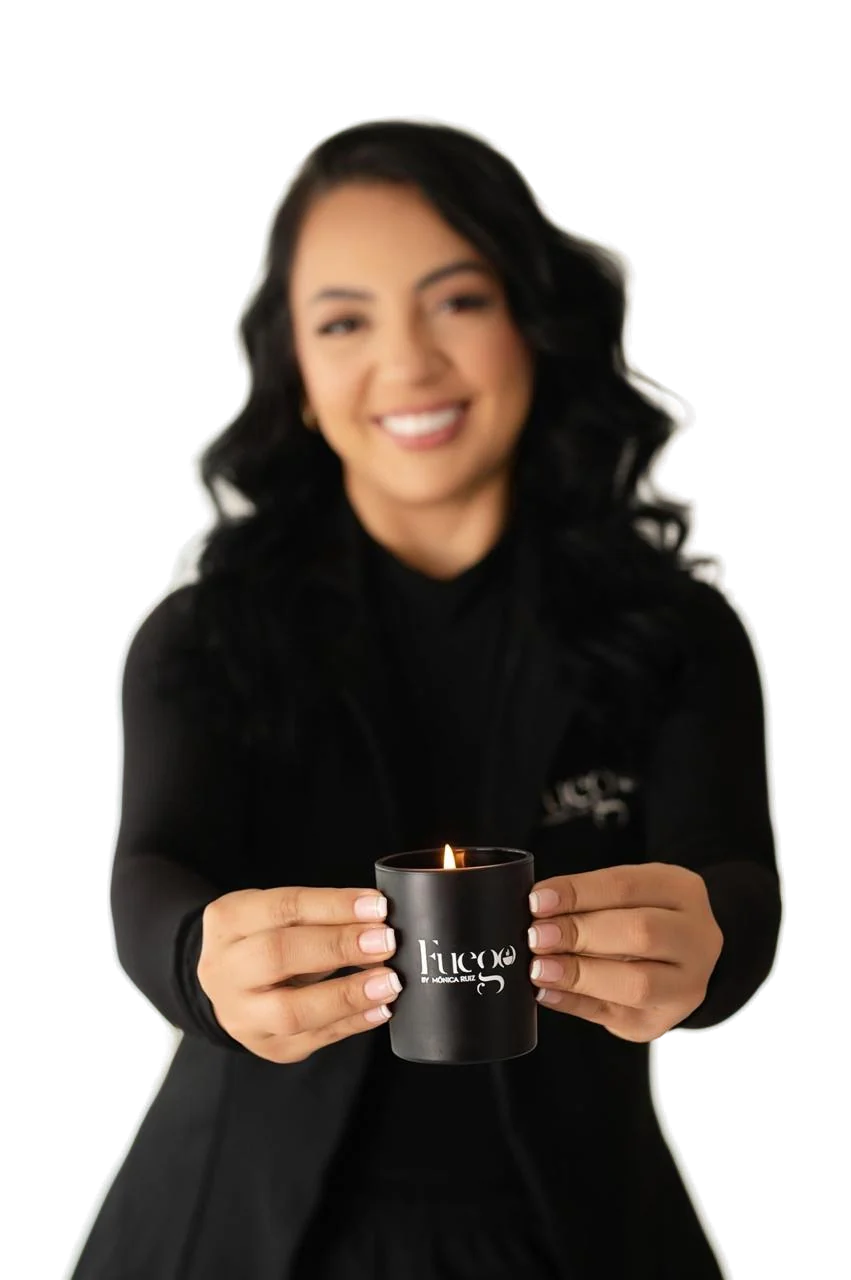
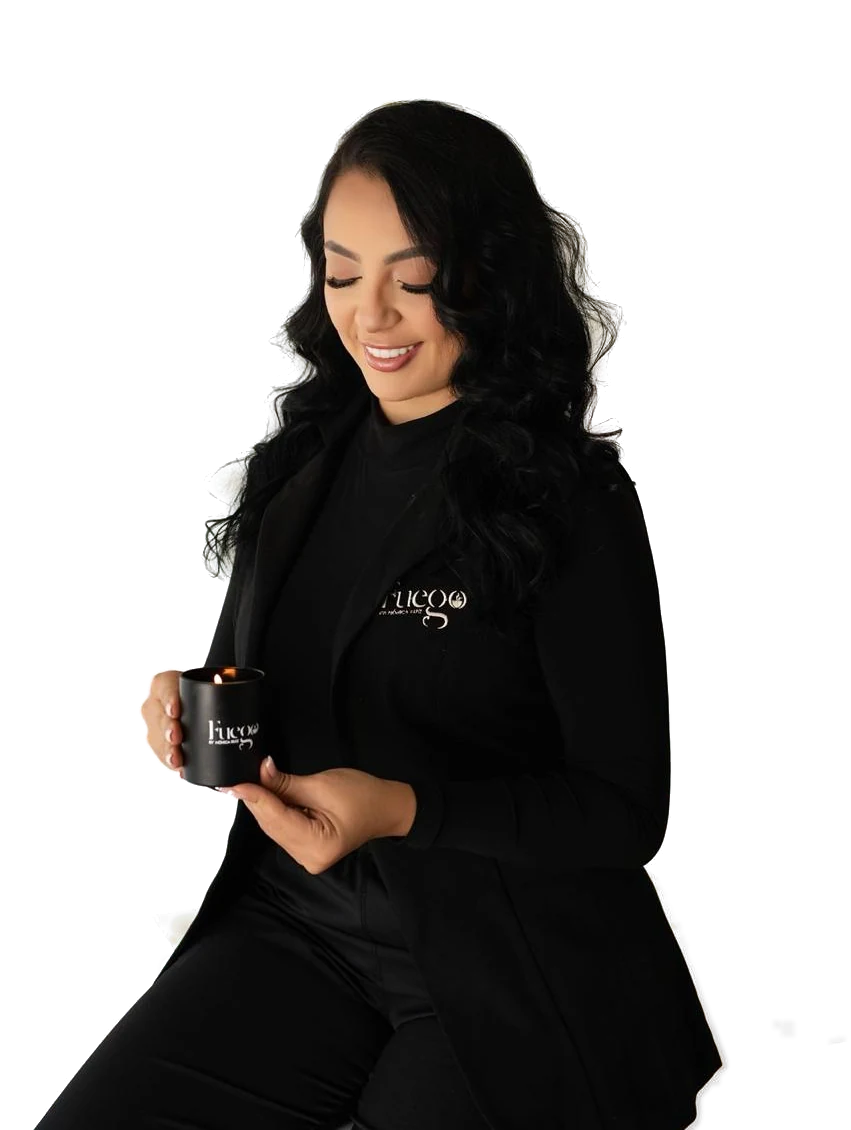
Cambia la foto del encendido por la de Mónica sentada mirando la vela
La luz, la llama y las chispas se alinean con la vela de la nueva foto.

Claude-Session: https://claude.ai/code/session_016FcfXPu4NS4CATQEVcUnev

Changed region(s): [[0.0306, 0.0619, 0.9471, 1.0], [0.4583, 0.5265, 0.5499, 0.5575], [0.3972, 0.9912, 0.4277, 1.0]]

diff --git a/src/app/globals.css b/src/app/globals.css
@@ -15,8 +15,8 @@
   --fuego: #ba4719;
   --tinta: #efe4d4;
   /* Punto de la llama dentro de la foto de Mónica */
-  --fx: 52.8%;
-  --fy: 66.6%;
+  --fx: 25.9%;
+  --fy: 59.6%;
 }
 
 html {
@@ -198,10 +198,10 @@ body.claro .top {
 }
 .hero-figure {
   position: absolute;
-  left: 50%;
+  left: 54%;
   bottom: 0;
   height: 94svh;
-  aspect-ratio: 851 / 1280;
+  aspect-ratio: 851 / 1130;
   translate: -50% 0;
   z-index: 1;
   transform-origin: var(--fx) var(--fy);
@@ -225,14 +225,14 @@ body.claro .top {
     circle at var(--fx) var(--fy),
     #000 0%,
     rgba(0, 0, 0, 0.9) calc(var(--r) * 0.34%),
-    rgba(0, 0, 0, 0.35) calc(var(--r) * 0.7%),
+    rgba(0, 0, 0, 0.62) calc(var(--r) * 0.68%),
     transparent calc(var(--r) * 1%)
   );
   mask-image: radial-gradient(
     circle at var(--fx) var(--fy),
     #000 0%,
     rgba(0, 0, 0, 0.9) calc(var(--r) * 0.34%),
-    rgba(0, 0, 0, 0.35) calc(var(--r) * 0.7%),
+    rgba(0, 0, 0, 0.62) calc(var(--r) * 0.68%),
     transparent calc(var(--r) * 1%)
   );
 }
@@ -271,8 +271,8 @@ body.claro .top {
   position: absolute;
   left: var(--fx);
   top: var(--fy);
-  width: 3%;
-  translate: -50% -78%;
+  width: 2.2%;
+  translate: -50% -80%;
   transform-origin: 50% 92%;
   opacity: 0;
   filter: drop-shadow(0 0 6px #ffb347) drop-shadow(0 0 18px rgba(240, 122, 30, 0.8));

diff --git a/src/app/page.tsx b/src/app/page.tsx
@@ -37,14 +37,14 @@ export default function Home() {
           <div className="hero-logo" aria-hidden="true" />
           <div className="hero-figure" style={{ "--r": 0 } as React.CSSProperties}>
             {/* eslint-disable-next-line @next/next/no-img-element */}
-            <img className="fig dark" src="/img/monica.webp" alt="" width={851} height={1280} />
+            <img className="fig dark" src="/img/monica.webp" alt="" width={851} height={1130} />
             {/* eslint-disable-next-line @next/next/no-img-element */}
             <img
               className="fig lit"
               src="/img/monica.webp"
-              alt="Mónica Ruiz sostiene una vela Fuego encendida"
+              alt="Mónica Ruiz, sentada, mira la vela Fuego encendida que sostiene en las manos"
               width={851}
-              height={1280}
+              height={1130}
             />
             <div className="glow" aria-hidden="true" />
             <div className="spark" aria-hidden="true" />

diff --git a/src/components/Motion.tsx b/src/components/Motion.tsx
@@ -271,8 +271,8 @@ export default function Motion() {
         lienzo.width = ancho * dpr;
         lienzo.height = alto * dpr;
         origen = {
-          x: f.left - h.left + f.width * 0.528,
-          y: f.top - h.top + f.height * 0.655,
+          x: f.left - h.left + f.width * 0.259,
+          y: f.top - h.top + f.height * 0.585,
         };
       };
       const nacer = (c: Partial<Chispa> = {}): Chispa => {
